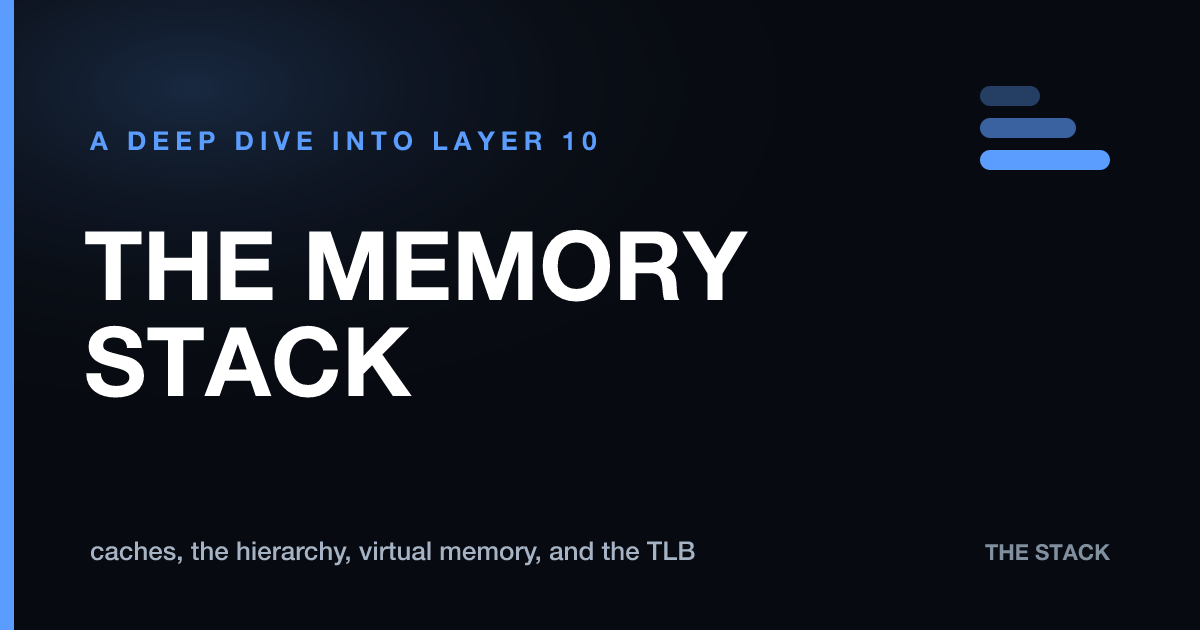
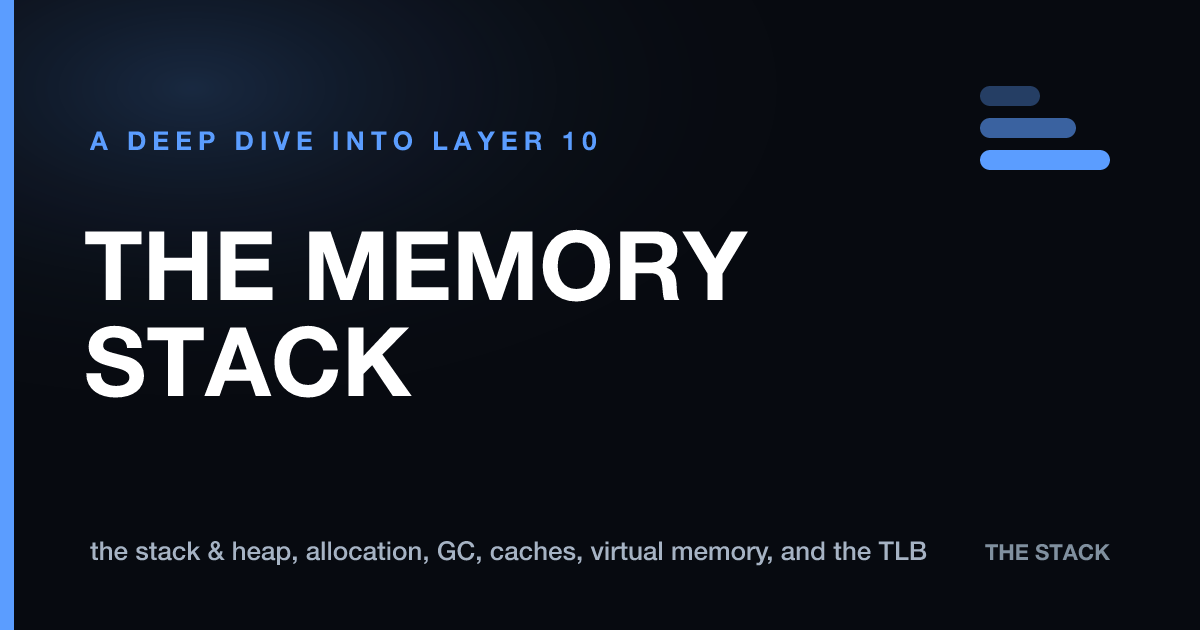
Grow /memory with the allocation story
The memory deep-dive only covered the hardware read path (cache, hierarchy,
TLB). Adds the software side — how a program places and manages its bytes —
growing it from 6 sections to 9, inserted after Addresses: stack & heap →
allocation/fragmentation → garbage collection → (then cache → … → one load).

- buildStackHeap: a call pushes/pops a stack frame automatically; a heap
  block outlives the call (new StackHeap.svelte).
- buildAllocator: first-fit malloc/free, and a 3-cell request that fails on
  3 scattered free cells — external fragmentation (new Allocator.svelte).
- buildGc: mark-and-sweep — trace from the roots, reclaim the unreachable
  (new GarbageCollector.svelte, SVG object graph).
- memLayers renumbered M0–M8; stacks.js blurb + OG card updated; e2e updated
  for shifted IDs (cache → #M4, translation → #M6) plus a fragmentation check.

All gates green: 202 unit tests, audit + axe (0 violations across 14 pages),
31 e2e tests passing.

Changed region(s): [[0.0617, 0.8444, 0.7708, 0.9048]]

diff --git a/src/lib/widgets.js b/src/lib/widgets.js
@@ -788,3 +788,89 @@ export function buildGraphTraversal({ start = 'A' } = {}) {
   snap(null, 'visited in order ' + visited.join(' → ') + ' — BFS fans out level by level, which is why it finds the shortest path in hops');
   return out;
 }
+
+// --- MEMORY STACK (/memory), part 2: allocation ---
+
+// Stack vs heap. A call pushes a frame onto the stack (automatic, LIFO, freed
+// on return); the heap holds things that must outlive the call (manual, freed
+// explicitly). Returns the trace of main() calling f(), which heap-allocates a
+// block and returns — the frame vanishes, the heap block survives.
+export function buildStackHeap() {
+  const out = [];
+  let stack = [], heap = [];
+  const snap = (note, o = {}) => out.push({ stack: stack.slice(), heap: heap.slice(), note, highlight: o.highlight ?? null });
+  snap('a program splits its memory in two: the stack (automatic, for calls) and the heap (manual, for data that outlives a call)');
+  stack = ['main()'];
+  snap('main() starts → its frame is pushed onto the stack, holding its local variables');
+  stack = ['main()', 'f()'];
+  snap('main() calls f() → a new frame is pushed; f’s locals live here and vanish when f returns', { highlight: 'f()' });
+  heap = [{ id: 'block', owner: 'f()' }];
+  snap('f runs p = malloc(…) → a block is carved from the heap; the pointer p sits in f’s frame, but the block lives on the heap', { highlight: 'block' });
+  stack = ['main()'];
+  snap('f() returns → its frame is popped automatically, locals gone — but the heap block is still there (that’s why you’d heap-allocate)', { highlight: 'block' });
+  snap('the stack freed f’s memory for you on return; the heap block persists until something calls free(). Forget to, and it leaks');
+  return out;
+}
+
+// A heap allocator and external fragmentation. malloc carves a contiguous run
+// of cells; free releases one, leaving a hole. After frees, the total free
+// space can exceed a request yet still not fit, because it’s split into
+// non-adjacent gaps. Returns the trace; `cells` is the heap (owner or null).
+export function buildAllocator({ size = 8 } = {}) {
+  const out = [];
+  const cells = Array(size).fill(null);
+  const snap = (note, o = {}) => out.push({ cells: cells.slice(), note, failed: !!o.failed, free: cells.filter((c) => c === null).length });
+  const place = (id, n) => { // first-fit: find a run of n free cells
+    for (let i = 0; i + n <= size; i++) {
+      if (cells.slice(i, i + n).every((c) => c === null)) { for (let k = i; k < i + n; k++) cells[k] = id; return true; }
+    }
+    return false;
+  };
+  snap('the heap is one block of memory; malloc carves a contiguous run of cells, free returns one to the pool');
+  place('A', 3); snap('malloc A (3) → first-fit finds room at the front');
+  place('B', 2); snap('malloc B (2) → placed right after A');
+  place('C', 2); snap('malloc C (2) → placed after B; one cell left free at the end');
+  for (let i = 0; i < size; i++) if (cells[i] === 'B') cells[i] = null;
+  snap('free B → its 2 cells return to the pool, leaving a hole between A and C');
+  const ok = place('D', 3);
+  snap('malloc D (3) → there are 3 free cells, but split into a 2-gap and a 1-gap — no contiguous run of 3, so it FAILS', { failed: !ok });
+  snap('that’s external fragmentation: enough free memory in total, but too scattered to use — the reason allocators compact, or hand out fixed-size slabs');
+  return out;
+}
+
+// Mark-and-sweep garbage collection. Start from the roots and follow every
+// reference, marking what’s reachable; then sweep away everything unmarked.
+// Objects 4 and 5 are allocated but unreachable, so they’re collected — no
+// manual free, at the cost of a tracing pause. Returns the trace.
+export function buildGc() {
+  const objs = {
+    1: { refs: [2] }, 2: { refs: [3] }, 3: { refs: [] }, 4: { refs: [5] }, 5: { refs: [] },
+  };
+  const roots = [1];
+  const marked = new Set();
+  const swept = new Set();
+  const out = [];
+  const snap = (phase, current, note) => out.push({
+    phase, current,
+    objects: Object.keys(objs).map((id) => ({ id: +id, refs: objs[id].refs, marked: marked.has(+id), swept: swept.has(+id) })),
+    roots, note,
+  });
+  snap('idle', null, 'five objects are allocated; the roots (live variables) reference object 1. The GC keeps whatever it can reach from a root');
+  // BFS mark from roots
+  const queue = [...roots];
+  while (queue.length) {
+    const id = queue.shift();
+    if (marked.has(id)) continue;
+    marked.add(id);
+    for (const r of objs[id].refs) if (!marked.has(r)) { queue.push(r); }
+    const note = id === roots[0]
+      ? 'start at the root → mark object 1 reachable; follow it to ' + objs[id].refs.join(', ')
+      : (objs[id].refs.length ? 'mark ' + id + ' reachable → follow it to ' + objs[id].refs.join(', ') : 'mark ' + id + ' reachable → it references nothing, this branch ends');
+    snap('mark', id, note);
+  }
+  snap('mark', null, 'marking done: 1, 2, 3 are reachable. Objects 4 and 5 were never reached — no path from any root');
+  for (const id of [4, 5]) swept.add(id);
+  snap('sweep', null, 'sweep: free every unmarked object → 4 and 5 are reclaimed automatically, no free() call needed');
+  snap('idle', null, 'mark-and-sweep collects exactly the unreachable objects; the price is the collector must trace the graph, sometimes pausing the program');
+  return out;
+}

diff --git a/src/components/GarbageCollector.svelte b/src/components/GarbageCollector.svelte
@@ -1,0 +1,62 @@
+<script>
+  import { useStepper } from '../lib/stepper.svelte.js';
+  import { buildGc } from '../lib/widgets.js';
+  import Stepper from './Stepper.svelte';
+  const stepper = useStepper(() => buildGc(), { speed: 1100 });
+  const { idx } = stepper;
+  let s = $derived(stepper.all()[$idx]);
+  const POS = { 1: [70, 40], 2: [70, 130], 3: [180, 130], 4: [280, 40], 5: [280, 130] };
+  let byId = $derived(Object.fromEntries(s.objects.map((o) => [o.id, o])));
+  const state = (o) => (o.swept ? 'swept' : o.id === s.current ? 'cur' : o.marked ? 'marked' : 'unmarked');
+</script>
+<div class="widget">
+  <div class="csbar">
+    <span class="csmini">mark-and-sweep · reachability from the roots</span>
+    <span class="spacer"></span>
+    <span class="csmini gc-phase {s.phase}">{s.phase}</span>
+  </div>
+  <div class="w-label">step the collector — mark what the roots reach, sweep the rest</div>
+  <svg class="gc" viewBox="0 0 350 180" role="img" aria-label="garbage collector object graph">
+    <text x="70" y="16" text-anchor="middle" class="gc-root-lab">ROOT</text>
+    <line x1="70" y1="20" x2="70" y2="24" class="gc-edge" />
+    {#each s.objects as o}
+      {#each o.refs as r}
+        <line x1={POS[o.id][0]} y1={POS[o.id][1]} x2={POS[r][0]} y2={POS[r][1]} class="gc-edge" />
+      {/each}
+    {/each}
+    {#each s.objects as o}
+      <g class="gc-node {state(o)}">
+        <circle cx={POS[o.id][0]} cy={POS[o.id][1]} r="18" />
+        <text x={POS[o.id][0]} y={POS[o.id][1] + 5} text-anchor="middle">{o.id}</text>
+      </g>
+    {/each}
+  </svg>
+  <div class="gc-legend">
+    <span><i class="sw marked"></i> reachable</span>
+    <span><i class="sw swept"></i> collected</span>
+  </div>
+  <div class="csnote" role="status" aria-live="polite">{s.note}</div>
+  <Stepper {stepper} />
+</div>
+
+<style>
+  .gc-phase{color:var(--faint);text-transform:uppercase;letter-spacing:.08em}
+  .gc-phase.mark{color:var(--signal)}
+  .gc-phase.sweep{color:var(--red)}
+  .gc{width:100%;max-width:440px;display:block;margin:0 auto;height:auto}
+  .gc-edge{stroke:var(--border);stroke-width:2}
+  .gc-root-lab{fill:var(--faint);font-family:var(--mono);font-size:10px;letter-spacing:.1em}
+  .gc-node circle{fill:var(--surface);stroke:var(--faint);stroke-width:2;transition:.18s}
+  .gc-node text{fill:var(--dim);font-family:var(--mono);font-weight:700;font-size:14px}
+  .gc-node.unmarked circle{stroke:var(--border)}
+  .gc-node.marked circle{stroke:var(--signal);fill:var(--signal-d)}
+  .gc-node.marked text{fill:var(--signal)}
+  .gc-node.cur circle{stroke:var(--blue);fill:var(--blue-d);stroke-width:3}
+  .gc-node.cur text{fill:var(--blue)}
+  .gc-node.swept circle{stroke:var(--red);fill:rgba(255,107,107,.1);stroke-dasharray:3 3}
+  .gc-node.swept text{fill:var(--red)}
+  .gc-legend{display:flex;gap:18px;justify-content:center;font-family:var(--mono);font-size:11px;color:var(--faint);margin-top:4px}
+  .gc-legend i{display:inline-block;width:11px;height:11px;border-radius:3px;margin-right:4px;vertical-align:middle}
+  .gc-legend .sw.marked{border:1px solid var(--signal);background:var(--signal-d)}
+  .gc-legend .sw.swept{border:1px solid var(--red);background:rgba(255,107,107,.1)}
+</style>

diff --git a/src/components/StackHeap.svelte b/src/components/StackHeap.svelte
@@ -1,0 +1,49 @@
+<script>
+  import { useStepper } from '../lib/stepper.svelte.js';
+  import { buildStackHeap } from '../lib/widgets.js';
+  import Stepper from './Stepper.svelte';
+  const stepper = useStepper(() => buildStackHeap(), { speed: 1100 });
+  const { idx } = stepper;
+  let s = $derived(stepper.all()[$idx]);
+</script>
+<div class="widget">
+  <div class="csbar"><span class="csmini">stack (automatic) vs heap (manual)</span></div>
+  <div class="w-label">step a call — the frame is freed on return, the heap block isn’t</div>
+  <div class="sh-grid">
+    <div class="sh-col">
+      <div class="sh-head">Stack <span>grows down · freed on return</span></div>
+      <div class="sh-frames">
+        {#each [...s.stack].reverse() as fr}
+          <div class="sh-frame" class:hot={fr === s.highlight}>{fr}</div>
+        {/each}
+        {#if s.stack.length === 0}<div class="sh-empty">empty</div>{/if}
+      </div>
+    </div>
+    <div class="sh-col">
+      <div class="sh-head">Heap <span>manual · persists until freed</span></div>
+      <div class="sh-frames">
+        {#each s.heap as blk}
+          <div class="sh-block" class:hot={s.highlight === 'block'}>{blk.id}<small>from {blk.owner}</small></div>
+        {/each}
+        {#if s.heap.length === 0}<div class="sh-empty">empty</div>{/if}
+      </div>
+    </div>
+  </div>
+  <div class="csnote" role="status" aria-live="polite">{s.note}</div>
+  <Stepper {stepper} />
+</div>
+
+<style>
+  .sh-grid{display:grid;grid-template-columns:1fr 1fr;gap:18px;font-family:var(--mono)}
+  @media(max-width:520px){.sh-grid{grid-template-columns:1fr}}
+  .sh-col{border:1px solid var(--border);border-radius:12px;padding:14px;background:var(--surface)}
+  .sh-head{font-weight:700;color:var(--ink);font-size:14px;display:flex;flex-direction:column;gap:2px;margin-bottom:12px}
+  .sh-head span{font-size:11px;font-weight:400;color:var(--faint)}
+  .sh-frames{display:flex;flex-direction:column;gap:6px;min-height:90px}
+  .sh-frame{border:1px solid var(--blue);border-radius:8px;padding:10px 12px;color:var(--blue);background:var(--blue-d);font-weight:700;transition:.18s}
+  .sh-frame.hot{border-color:var(--signal);color:var(--signal);background:var(--signal-d)}
+  .sh-block{display:flex;flex-direction:column;border:1px solid var(--amber);border-radius:8px;padding:10px 12px;color:var(--amber);background:var(--amber-d);font-weight:700;transition:.18s}
+  .sh-block small{font-size:10px;font-weight:400;color:var(--faint);margin-top:2px}
+  .sh-block.hot{box-shadow:0 0 14px var(--amber-d)}
+  .sh-empty{font-size:12px;color:var(--faint)}
+</style>

diff --git a/src/lib/widgets.test.js b/src/lib/widgets.test.js
@@ -1,5 +1,5 @@
 import { describe, it, expect } from 'vitest';
-import { buildCpu, buildEnc, buildPkt, buildCloudHops, PACKET_FRAGMENTS, decodeMiniFloat, buildRace, buildRouting, buildDns, buildLex, buildVm, invalidatedStages, toyHash, modpow, buildDiffieHellman, buildBTreeSearch, buildTransaction, buildCache, buildAddressTranslation, buildSyscall, buildDynamicArray, buildHashMap, twosValue, buildTwosComplement, buildFloatGrid, buildFloatSum, DOPING, buildDiode, cmosInverter, ALU_OPS, computeAlu, PIPE_STAGES, buildPipeline, buildDeadlock, buildCas, buildLoadBalancer, buildReplication, buildLinkedList, buildStackQueue, GRAPH, buildGraphTraversal } from './widgets.js';
+import { buildCpu, buildEnc, buildPkt, buildCloudHops, PACKET_FRAGMENTS, decodeMiniFloat, buildRace, buildRouting, buildDns, buildLex, buildVm, invalidatedStages, toyHash, modpow, buildDiffieHellman, buildBTreeSearch, buildTransaction, buildCache, buildAddressTranslation, buildSyscall, buildDynamicArray, buildHashMap, twosValue, buildTwosComplement, buildFloatGrid, buildFloatSum, DOPING, buildDiode, cmosInverter, ALU_OPS, computeAlu, PIPE_STAGES, buildPipeline, buildDeadlock, buildCas, buildLoadBalancer, buildReplication, buildLinkedList, buildStackQueue, GRAPH, buildGraphTraversal, buildStackHeap, buildAllocator, buildGc } from './widgets.js';
 
 const popcount = (n) => { let c = 0; n >>>= 0; while (n) { c += n & 1; n >>>= 1; } return c; };
 
@@ -544,6 +544,45 @@ describe('buildGraphTraversal (BFS)', () => {
     const visits = steps.filter((s) => s.current).map((s) => s.current);
     expect(new Set(visits).size).toBe(GRAPH.nodes.length);
     expect(visits).toHaveLength(GRAPH.nodes.length);
+  });
+});
+
+describe('buildStackHeap (allocation regions)', () => {
+  const steps = buildStackHeap();
+  it('pushes f’s frame on the call, pops it on return — and the heap block survives', () => {
+    const maxStack = Math.max(...steps.map((s) => s.stack.length));
+    expect(maxStack).toBe(2); // main + f
+    const last = steps[steps.length - 1];
+    expect(last.stack).toEqual(['main()']); // f popped
+    expect(last.heap).toHaveLength(1);       // heap block persists
+  });
+});
+
+describe('buildAllocator (external fragmentation)', () => {
+  const steps = buildAllocator();
+  it('after freeing B, a 3-cell malloc fails despite 3 cells free (fragmented)', () => {
+    const failStep = steps.find((s) => s.failed);
+    expect(failStep).toBeTruthy();
+    expect(failStep.free).toBe(3); // enough total…
+    // …but not contiguous: D never appears in the heap
+    expect(failStep.cells.includes('D')).toBe(false);
+  });
+});
+
+describe('buildGc (mark-and-sweep)', () => {
+  const steps = buildGc();
+  const last = steps[steps.length - 1];
+  it('marks the reachable objects (1,2,3) and sweeps the unreachable (4,5)', () => {
+    const byId = Object.fromEntries(last.objects.map((o) => [o.id, o]));
+    expect(byId[1].marked && byId[2].marked && byId[3].marked).toBe(true);
+    expect(byId[4].swept && byId[5].swept).toBe(true);
+    expect(byId[4].marked || byId[5].marked).toBe(false);
+  });
+  it('has a mark phase before the sweep phase', () => {
+    const firstSweep = steps.findIndex((s) => s.phase === 'sweep');
+    const firstMark = steps.findIndex((s) => s.phase === 'mark');
+    expect(firstMark).toBeGreaterThanOrEqual(0);
+    expect(firstMark).toBeLessThan(firstSweep);
   });
 });
 

diff --git a/src/components/Allocator.svelte b/src/components/Allocator.svelte
@@ -1,0 +1,32 @@
+<script>
+  import { useStepper } from '../lib/stepper.svelte.js';
+  import { buildAllocator } from '../lib/widgets.js';
+  import Stepper from './Stepper.svelte';
+  const stepper = useStepper(() => buildAllocator(), { speed: 1000 });
+  const { idx } = stepper;
+  let s = $derived(stepper.all()[$idx]);
+  const COL = { A: 'var(--blue)', B: 'var(--amber)', C: 'var(--violet)', D: 'var(--signal)' };
+</script>
+<div class="widget">
+  <div class="csbar">
+    <span class="csmini">heap allocator · first-fit</span>
+    <span class="spacer"></span>
+    <span class="csmini" class:al-fail={s.failed}>{s.free} cells free{s.failed ? ' · but can’t fit!' : ''}</span>
+  </div>
+  <div class="w-label">step malloc and free — watch holes appear and a request fail to fit</div>
+  <div class="al-heap" class:failed={s.failed}>
+    {#each s.cells as c}
+      <span class="al-cell" class:free={c === null} style:--c={c ? COL[c] : 'transparent'}>{c ?? ''}</span>
+    {/each}
+  </div>
+  <div class="csnote" role="status" aria-live="polite">{s.note}</div>
+  <Stepper {stepper} />
+</div>
+
+<style>
+  .al-fail{color:var(--red)}
+  .al-heap{display:flex;gap:6px;font-family:var(--mono);margin:6px 0 4px;border:1px solid transparent;border-radius:10px;padding:6px;transition:.18s}
+  .al-heap.failed{border-color:var(--red);background:rgba(255,107,107,.06)}
+  .al-cell{flex:1;height:46px;display:flex;align-items:center;justify-content:center;border-radius:8px;font-weight:700;font-size:15px;border:1px solid var(--c);color:var(--c);background:color-mix(in srgb, var(--c) 14%, var(--surface));transition:.18s}
+  .al-cell.free{border:1px dashed var(--border);color:var(--faint);background:var(--fill)}
+</style>

diff --git a/e2e/widgets.spec.js b/e2e/widgets.spec.js
@@ -87,12 +87,21 @@ test('Database page: own nav, B-tree finds the key, a crash without a txn loses 
   await expect(tx.locator('.txn-acct.total .txn-val')).toHaveText('250');
 });
 
-test('Memory page: own nav, a cache access hits, a virtual address translates to 122', async ({ page }) => {
+test('Memory page: own nav, fragmentation fails a malloc, a cache hits, an address translates to 122', async ({ page }) => {
   await page.goto('/memory');
   await expect(page.locator('h1.title')).toContainText('MEMORY');
-  await expect(page.locator('.spine .rung')).toHaveCount(6);
-  // cache: stepping eventually lands on a HIT (addresses 1,2,3 hit line 0 after 0 loads it)
-  const cache = page.locator('#M1');
+  await expect(page.locator('.spine .rung')).toHaveCount(9);
+  // allocator (section M2): stepping reaches a fragmented malloc that fails
+  const al = page.locator('#M2');
+  await al.scrollIntoViewIfNeeded();
+  for (let i = 0; i < 7; i++) {
+    await al.locator('.cpu-ctrl button').first().click();
+    if (await al.locator('.al-heap.failed').count()) break;
+    await page.waitForTimeout(40);
+  }
+  await expect(al.locator('.al-heap.failed')).toBeVisible();
+  // cache (now section M4): stepping eventually lands on a HIT
+  const cache = page.locator('#M4');
   await cache.scrollIntoViewIfNeeded();
   for (let i = 0; i < 9; i++) {
     await cache.locator('.cpu-ctrl button').first().click();
@@ -100,8 +109,8 @@ test('Memory page: own nav, a cache access hits, a virtual address translates to
     await page.waitForTimeout(40);
   }
   await expect(cache.locator('.ca-badge.hit')).toBeVisible();
-  // address translation: stepping resolves the first virtual address to physical 122
-  const vm = page.locator('#M3');
+  // address translation (now section M6): resolves the first virtual address to physical 122
+  const vm = page.locator('#M6');
   await vm.scrollIntoViewIfNeeded();
   for (let i = 0; i < 4; i++) {
     await vm.locator('.cpu-ctrl button').first().click();

diff --git a/src/data/memLayers.js b/src/data/memLayers.js
@@ -2,9 +2,12 @@
 // shared engine (Base nav, LayerSection, scroll-spy) powers it unchanged.
 export const memLayers = [
   { id: 'M0', num: '00', navLabel: 'Addresses', zone: 'system', title: 'Addresses: RAM is one big array', sub: 'memory · bytes · addresses' },
-  { id: 'M1', num: '01', navLabel: 'Cache', zone: 'system', title: 'Cache: keep the hot data close', sub: 'memory · cache lines · locality' },
-  { id: 'M2', num: '02', navLabel: 'Hierarchy', zone: 'system', title: 'The hierarchy: speed bought with distance', sub: 'memory · registers · L1 · L2 · RAM · disk' },
-  { id: 'M3', num: '03', navLabel: 'Virtual memory', zone: 'system', title: 'Virtual memory: everyone gets their own', sub: 'memory · pages · the page table' },
-  { id: 'M4', num: '04', navLabel: 'The TLB', zone: 'system', title: 'The TLB: cache the translation itself', sub: 'memory · address-translation cache' },
-  { id: 'M5', num: '05', navLabel: 'One load', zone: 'all', title: 'One load, all the way down', sub: 'the whole trip · address → TLB → cache → RAM' },
+  { id: 'M1', num: '01', navLabel: 'Stack & heap', zone: 'system', title: 'Stack & heap: two ways to carve it up', sub: 'memory · automatic vs manual' },
+  { id: 'M2', num: '02', navLabel: 'Allocation', zone: 'system', title: 'malloc & free: the heap allocator', sub: 'memory · carving blocks · fragmentation' },
+  { id: 'M3', num: '03', navLabel: 'Garbage collection', zone: 'system', title: 'Garbage collection: who frees it for you', sub: 'memory · reachability · mark & sweep' },
+  { id: 'M4', num: '04', navLabel: 'Cache', zone: 'system', title: 'Cache: keep the hot data close', sub: 'memory · cache lines · locality' },
+  { id: 'M5', num: '05', navLabel: 'Hierarchy', zone: 'system', title: 'The hierarchy: speed bought with distance', sub: 'memory · registers · L1 · L2 · RAM · disk' },
+  { id: 'M6', num: '06', navLabel: 'Virtual memory', zone: 'system', title: 'Virtual memory: everyone gets their own', sub: 'memory · pages · the page table' },
+  { id: 'M7', num: '07', navLabel: 'The TLB', zone: 'system', title: 'The TLB: cache the translation itself', sub: 'memory · address-translation cache' },
+  { id: 'M8', num: '08', navLabel: 'One load', zone: 'all', title: 'One load, all the way down', sub: 'the whole trip · address → TLB → cache → RAM' },
 ];

diff --git a/src/data/stacks.js b/src/data/stacks.js
@@ -9,7 +9,7 @@ export const stacks = [
   { slug: 'numbers', name: 'Numbers', kind: 'stack', layer: '06', accent: '#ffb454', blurb: 'two’s complement, IEEE-754, and why 0.1 + 0.2 ≠ 0.3' },
   { slug: 'compiler', name: 'Compiler', kind: 'stack', layer: '08', accent: '#a78bfa', blurb: 'lexing, parsing, bytecode, and a tiny VM' },
   { slug: 'cpu', name: 'CPU', kind: 'stack', layer: '09', accent: '#5b9dff', blurb: 'registers, fetch-decode-execute, the ALU, pipelining, and the clock' },
-  { slug: 'memory', name: 'Memory', kind: 'stack', layer: '10', accent: '#5b9dff', blurb: 'caches, the hierarchy, virtual memory, and the TLB' },
+  { slug: 'memory', name: 'Memory', kind: 'stack', layer: '10', accent: '#5b9dff', blurb: 'the stack & heap, allocation, GC, caches, virtual memory, and the TLB' },
   { slug: 'structures', name: 'Structures', kind: 'stack', layer: '12', accent: '#2ee6c0', blurb: 'linked lists, stacks & queues, hash maps, trees, and graphs' },
   { slug: 'os', name: 'OS', kind: 'stack', layer: '13', accent: '#5b9dff', blurb: 'the scheduler, context switches, syscalls, and interrupts' },
   { slug: 'concurrency', name: 'Concurrency', kind: 'stack', layer: '14', accent: '#a78bfa', blurb: 'threads, race conditions, deadlock, and lock-free atomics' },

diff --git a/README.md b/README.md
@@ -66,7 +66,7 @@ src/
     render.astro          a /render deep-dive (DOM → style → layout → paint → composite)
     crypto.astro          a /crypto deep-dive (hashing → keys → exchange → certs → TLS)
     database.astro        a /database deep-dive (tables → indexes → queries → txns → replication)
-    memory.astro          a /memory deep-dive (addresses → cache → hierarchy → virtual memory → TLB)
+    memory.astro          a /memory deep-dive (addresses → stack/heap → allocation → GC → cache → hierarchy → virtual memory → TLB)
     os.astro              an /os deep-dive (processes → scheduler → context switch → syscalls → interrupts)
     structures.astro      a /structures deep-dive (arrays → linked lists → stacks/queues → hash maps → trees → graphs → big-O)
     numbers.astro         a /numbers deep-dive (place value → two's complement → IEEE-754 → precision → 0.1+0.2)